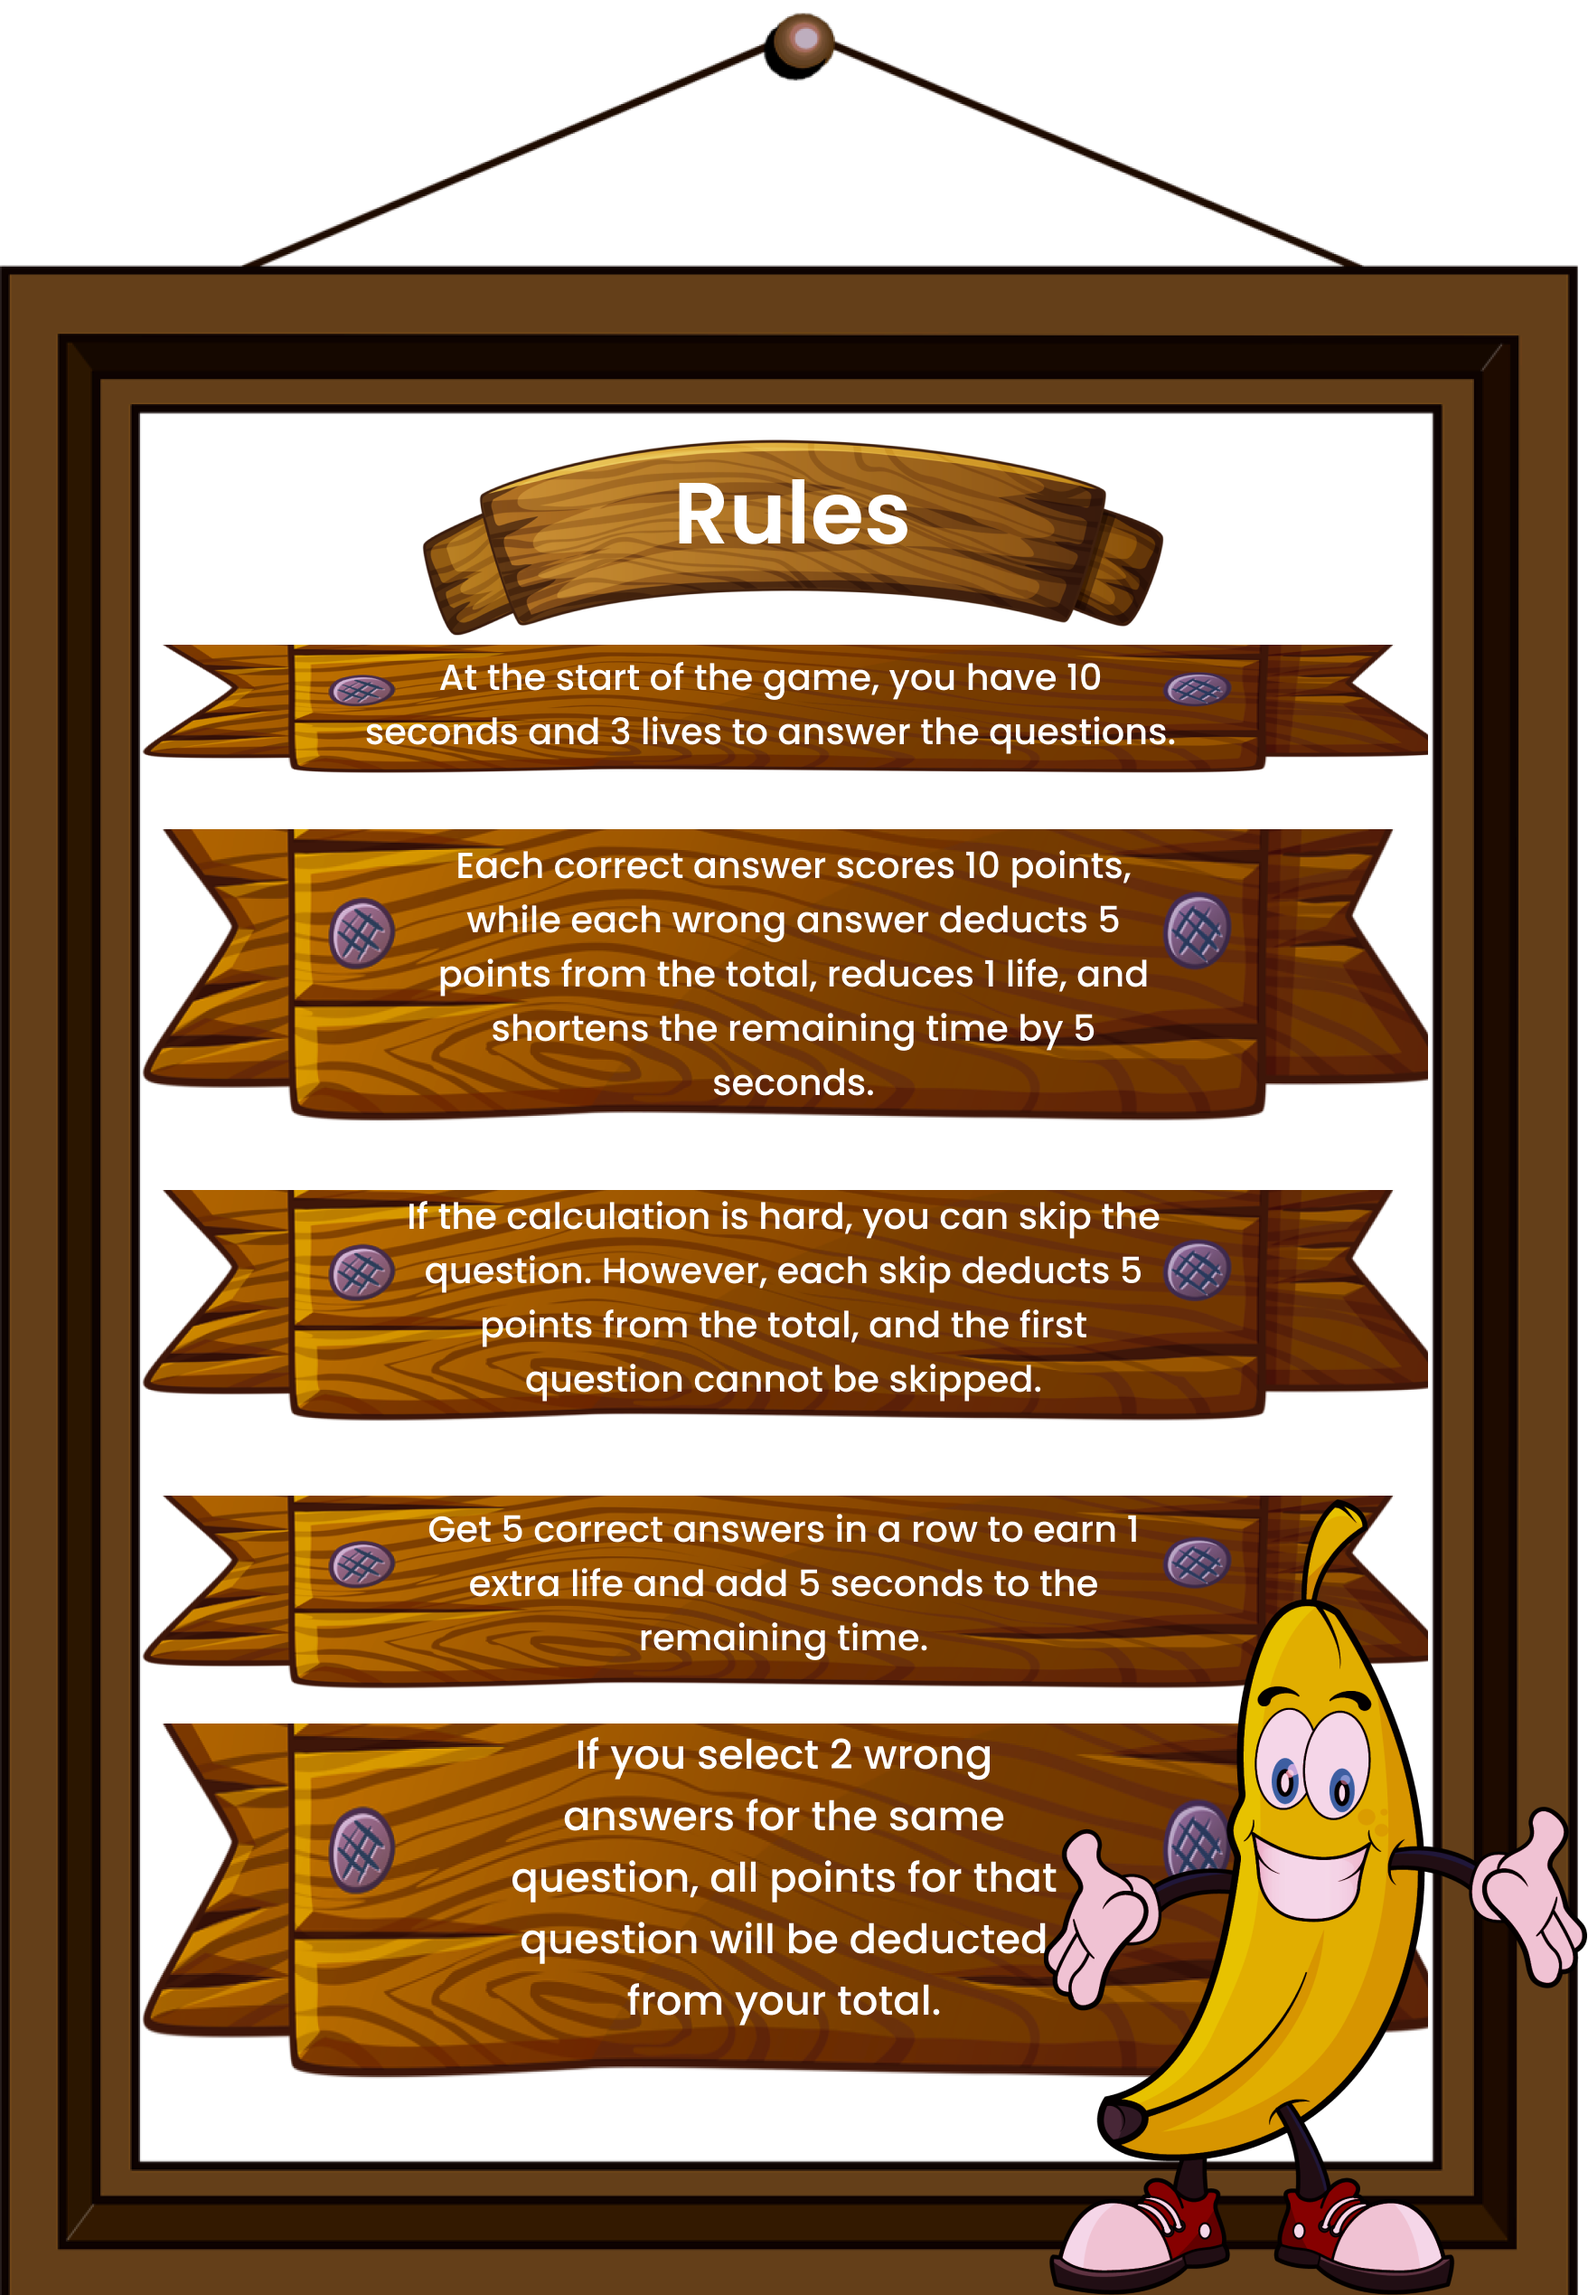
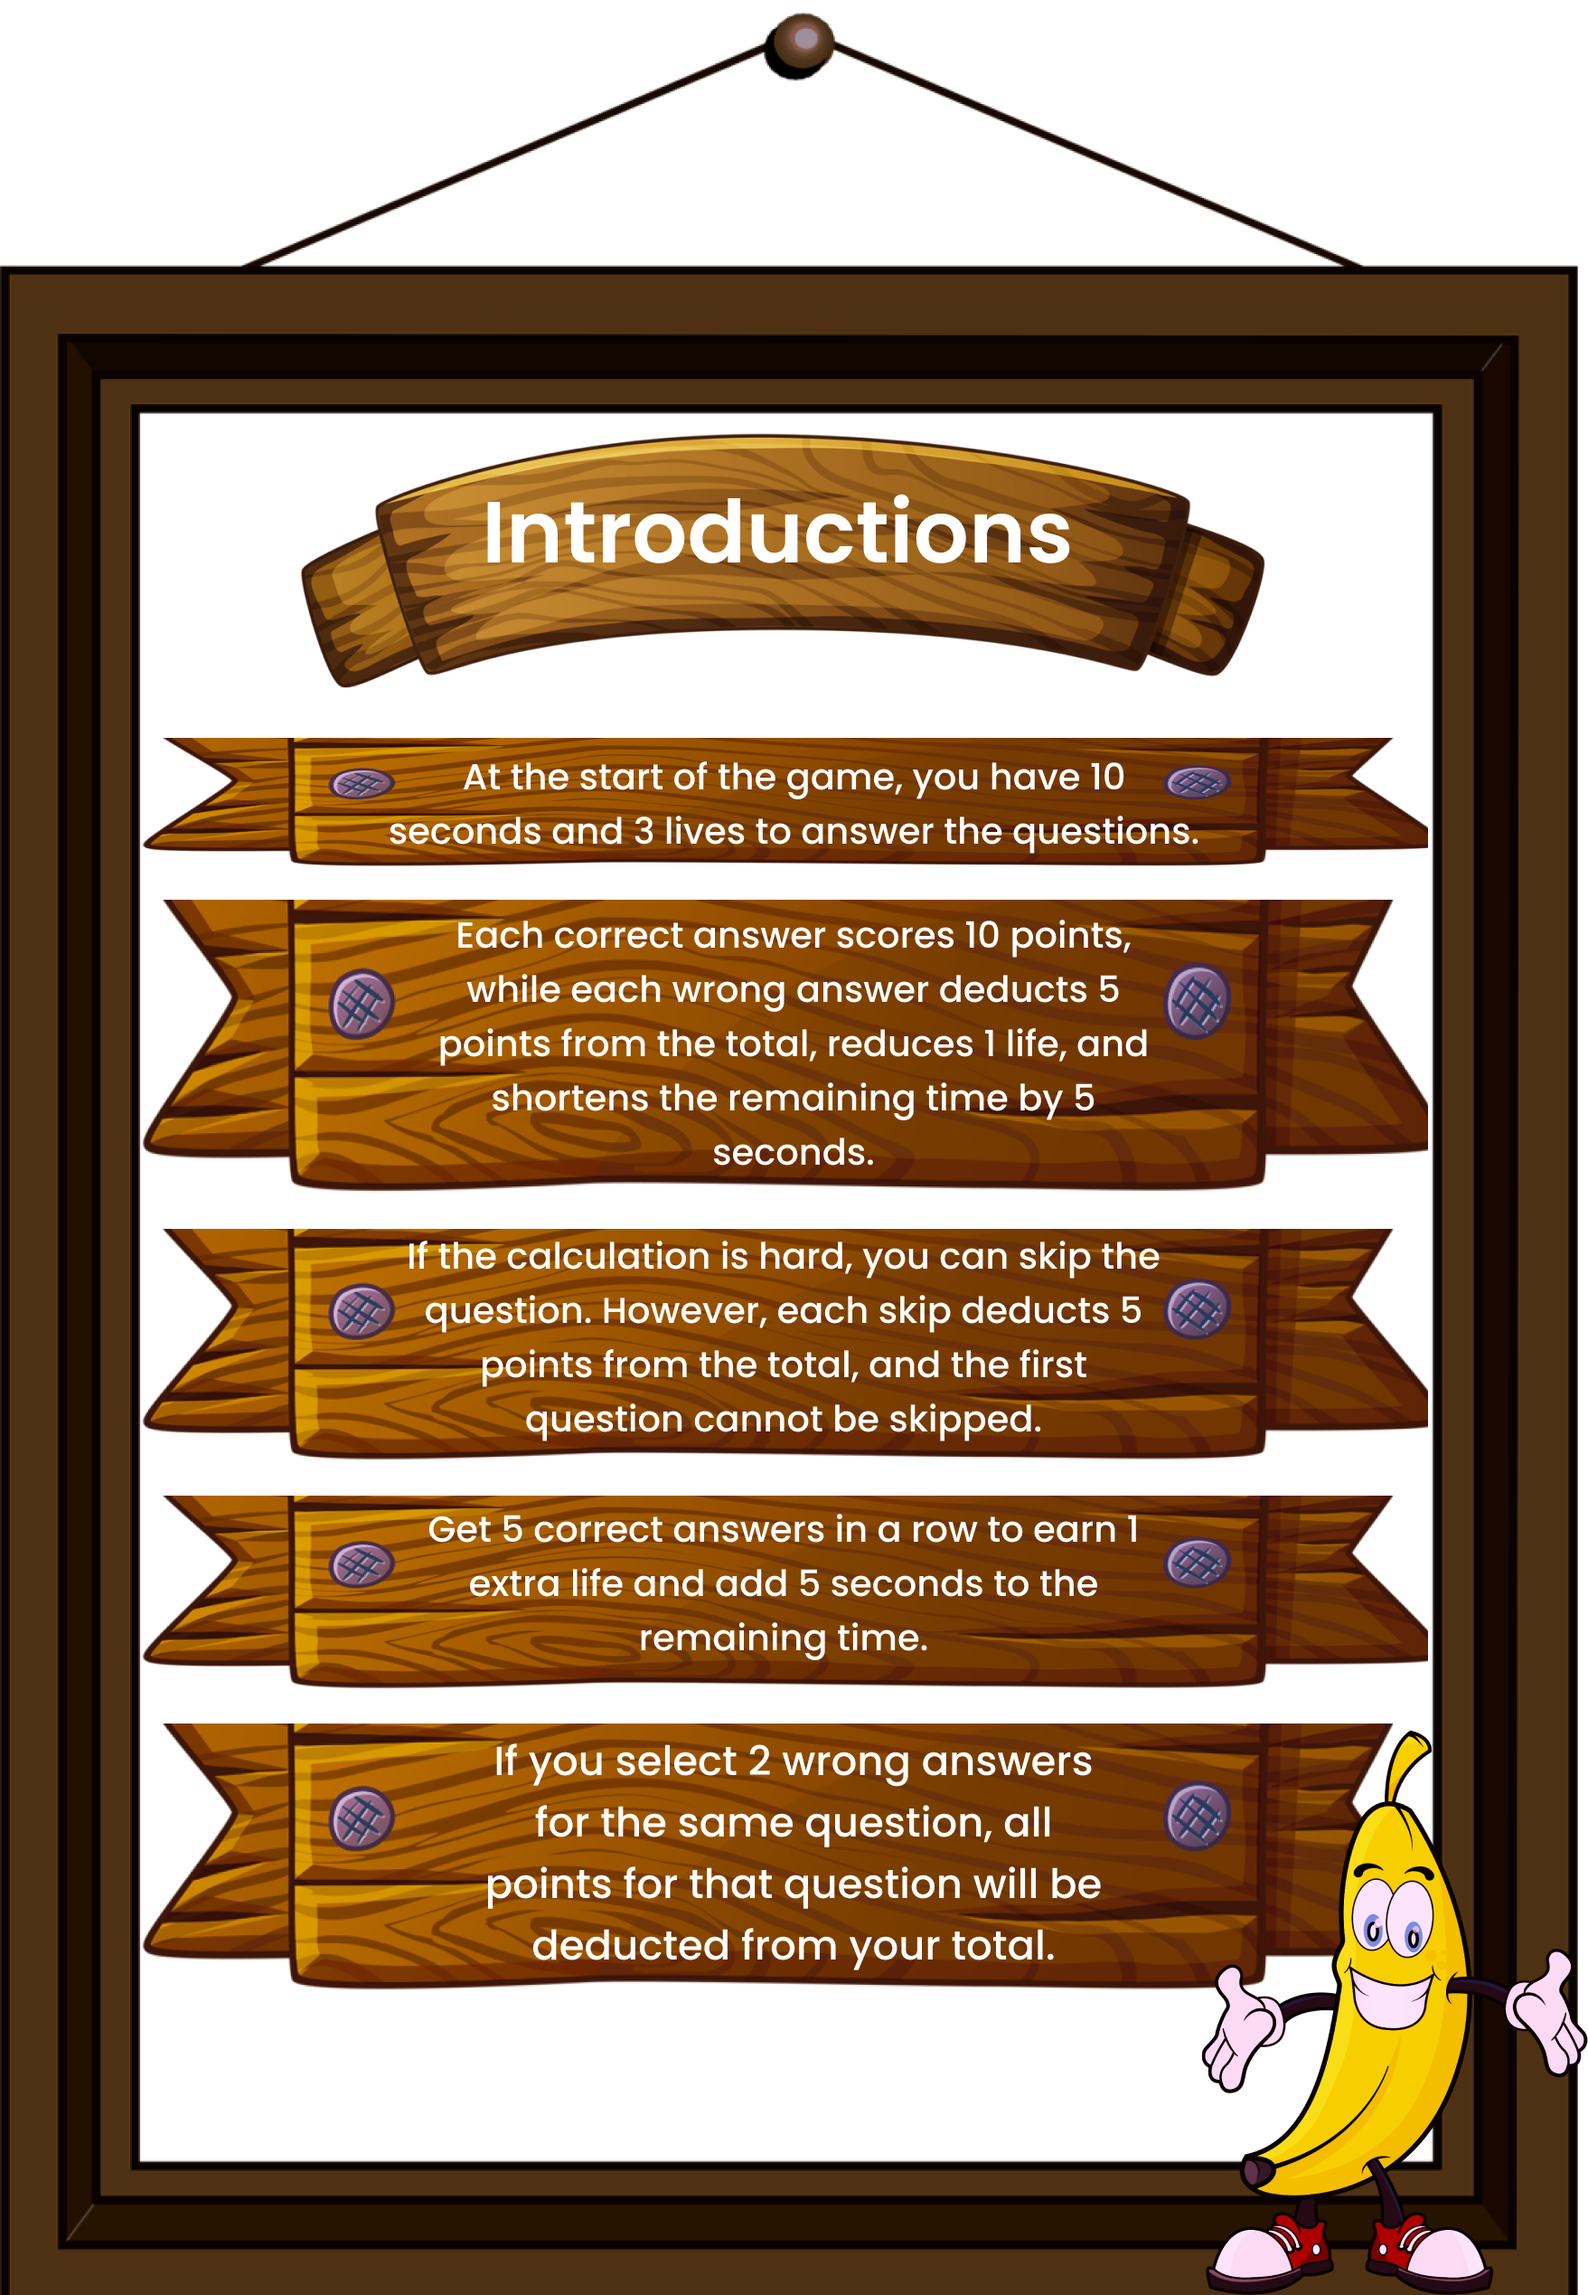
Rules page changed to Introduction page

diff --git a/Banana_game/app/(tabs)/_layout.jsx b/Banana_game/app/(tabs)/_layout.jsx
@@ -72,15 +72,15 @@ const TabsLayout = () => {
         />
 
         <Tabs.Screen
-          name="rules"
+          name="introduction"
           options={{
-            title: "Rules",
+            title: "Introduction",
             headerShown: false,
             tabBarIcon: ({ color, focused }) => (
               <TabIcon
                 icon={icons.rules}
                 color={color}
-                name="Rules"
+                name="Introduction"
                 focused={focused}
               />
             ),

diff --git a/Banana_game/app/(tabs)/introduction.jsx b/Banana_game/app/(tabs)/introduction.jsx
@@ -4,7 +4,7 @@ import { SafeAreaView } from "react-native-safe-area-context";
 
 import images from "../../constants/images";
 
-const Rules = () => {
+const Introduction = () => {
   return (
     <SafeAreaView className="bg-darkGreen h-full">
       <ScrollView contentContainerStyle={{ height: "100%" }}>
@@ -42,4 +42,4 @@ const Rules = () => {
   );
 };
 
-export default Rules;
+export default Introduction;
